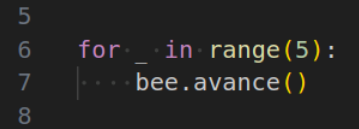
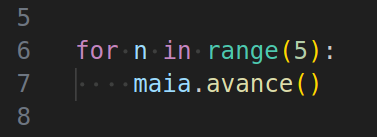
[07] Ajustes na abelhinha

diff --git a/07_curso_expresso/03_laços_com_abelhinha/fase03/README.md b/07_curso_expresso/03_laços_com_abelhinha/fase03/README.md
@@ -40,7 +40,7 @@ SyntaxError: expected ':'
 ```
 
 Aqui, o Python está dizendo que esperava dois pontos (`:`) no final da linha
-6, e marca o local exato com o acento circunflexo (`^`).
+`6`, e marca o local exato com o acento circunflexo (`^`).
 
 Agora é sua vez de brincar com esse novo bloco de repetição, que tem a seguinte estrutura (sintaxe):
 
@@ -51,17 +51,18 @@ for n in range(???):
 As instruções colocadas no lugar de `<instruções aqui>` serão repetidas o 
 número de vezes indicado no lugar de `???`:
 
-- **`for`** e **`in`** são **palavras reservadas** da linguagem — você não
-pode usá-las como identificados.
+- **`for`** e **`in`** são **palavras reservadas** da linguagem: você não
+pode usá-las como identificadores.
 - **`n`** é uma **variável temporária**, que só existe enquanto o laço `for` 
 está rodando.
-- **`range`** é uma **função embutida** da linguagem
+- **`range`** é uma **função embutida** da linguagem.
 
-Mais adiante veremos outras formas de usar esses mesmo elementos.
+Mais adiante veremos outras formas de usar esses elementos.
 
 ## 🐝 Sua vez de praticar
 
-O código-inicial desta fase resgate o que você fez na fase 1. Faça a abelhinha avançar por todas os girassóis — mas desta vez usando a instrução
+O código-inicial desta fase resgate o que você fez na fase 1. Faça a abelhinha
+avançar por todas os girassóis — mas desta vez usando a instrução
 `for n in range(5):`
 
 
@@ -76,7 +77,7 @@ O código-inicial desta fase resgate o que você fez na fase 1. Faça a abelhinh
 
 - `turtle.mainloop()`
 
-### Abelhinha
+### Kareto
 
 - `from fase01 import Abelha`
 

diff --git a/07_curso_expresso/03_laços_com_abelhinha/fase01/README.md b/07_curso_expresso/03_laços_com_abelhinha/fase01/README.md
@@ -8,7 +8,7 @@ no seu mundo a cada vez que que ela recebe essa mensagem.
 
 ## 🐝 Sua vez de praticar
 
-Faça a abelhinha avançar por todas as flores. Aqui, não é preciso
+Faça a abelhinha avançar por todas as girassóis. Aqui, não é preciso
 comando específico para a coleta do néctar. Basta a abelha chegar até a flor
 para o néctar ser colhido e a flor desaparecer.
 
@@ -33,7 +33,7 @@ para o néctar ser colhido e a flor desaparecer.
 
 ```python
 import turtle
-from fase01.fase01 import Abelha
+from fase01 import Abelha
 
 maia = Abelha()
 
@@ -41,7 +41,7 @@ maia = Abelha()
 
 
 
-# Fim do seu código aqui
+## Fim do seu código aqui
 
 turtle.mainloop()
 

diff --git a/07_curso_expresso/03_laços_com_abelhinha/README.md b/07_curso_expresso/03_laços_com_abelhinha/README.md
@@ -74,7 +74,7 @@ Agora avance você para a fase 1 para começar a praticar.
 
 
 1. Crie uma pasta onde você colocará todos seus exercícios.
-1. Faça o download do pacote kareto.
+1. Faça o download do pacote kareto [clicando aqui](https://github.com/adorilson/kareto/releases/download/v0.1/kareto.zip).
 1. Descompacte o pacote na mesma pasta criada anteriormente.
 1. Abra essa pasta no VS Code.
 1. Copie o código inicial deste exercício.

diff --git a/07_curso_expresso/03_laços_com_abelhinha/fase06/README.md b/07_curso_expresso/03_laços_com_abelhinha/fase06/README.md
@@ -57,4 +57,4 @@ maia = Abelha()
 turtle.mainloop()
 ```
 
-[Anterior](../fase05/README.md) | [Próximo](../fase06/README.md)
+[Anterior](../fase05/README.md) | [Próximo](../fase07/README.md)

diff --git a/07_curso_expresso/03_laços_com_abelhinha/fase04/README.md b/07_curso_expresso/03_laços_com_abelhinha/fase04/README.md
@@ -48,7 +48,7 @@ maia = Abelha()
 
 
 
-# Fim do seu código aqui
+## Fim do seu código aqui
 
 turtle.mainloop()
 

diff --git a/07_curso_expresso/03_laços_com_abelhinha/fase09/README.md b/07_curso_expresso/03_laços_com_abelhinha/fase09/README.md
@@ -48,7 +48,7 @@ maia = Abelha()
 
 
 
-# Fim do seu código aqui
+## Fim do seu código aqui
 
 turtle.mainloop()
 
